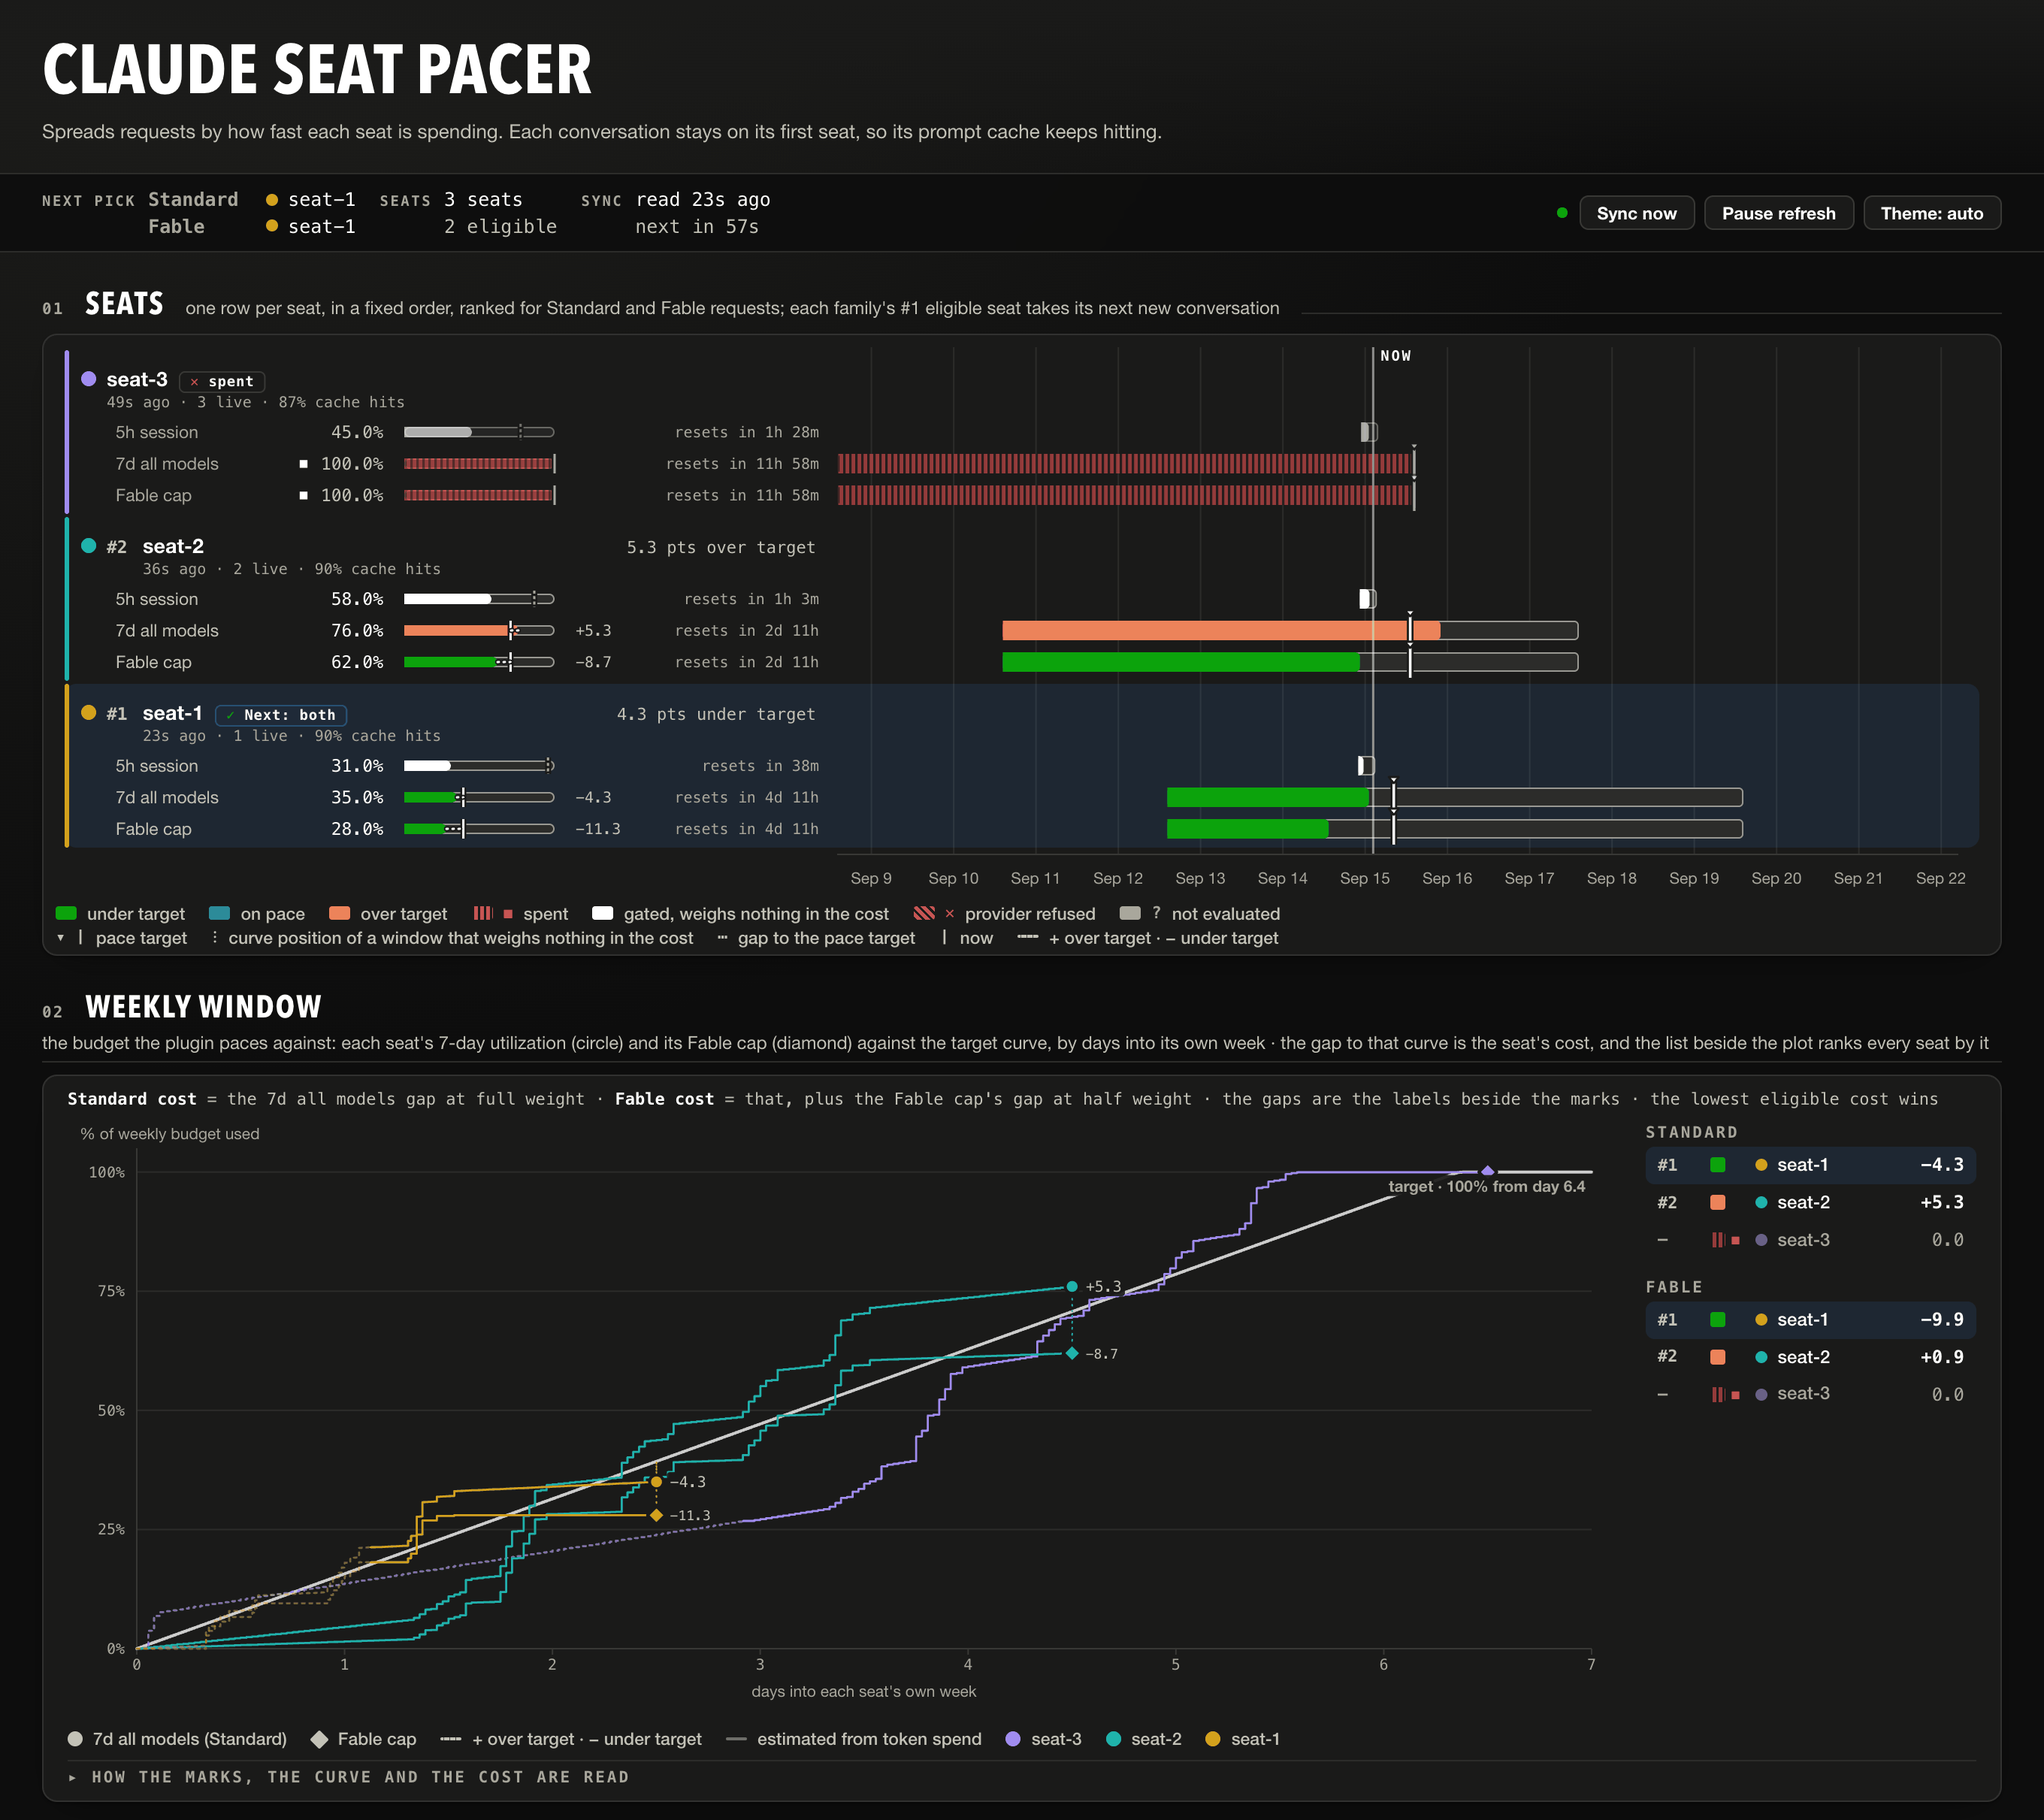
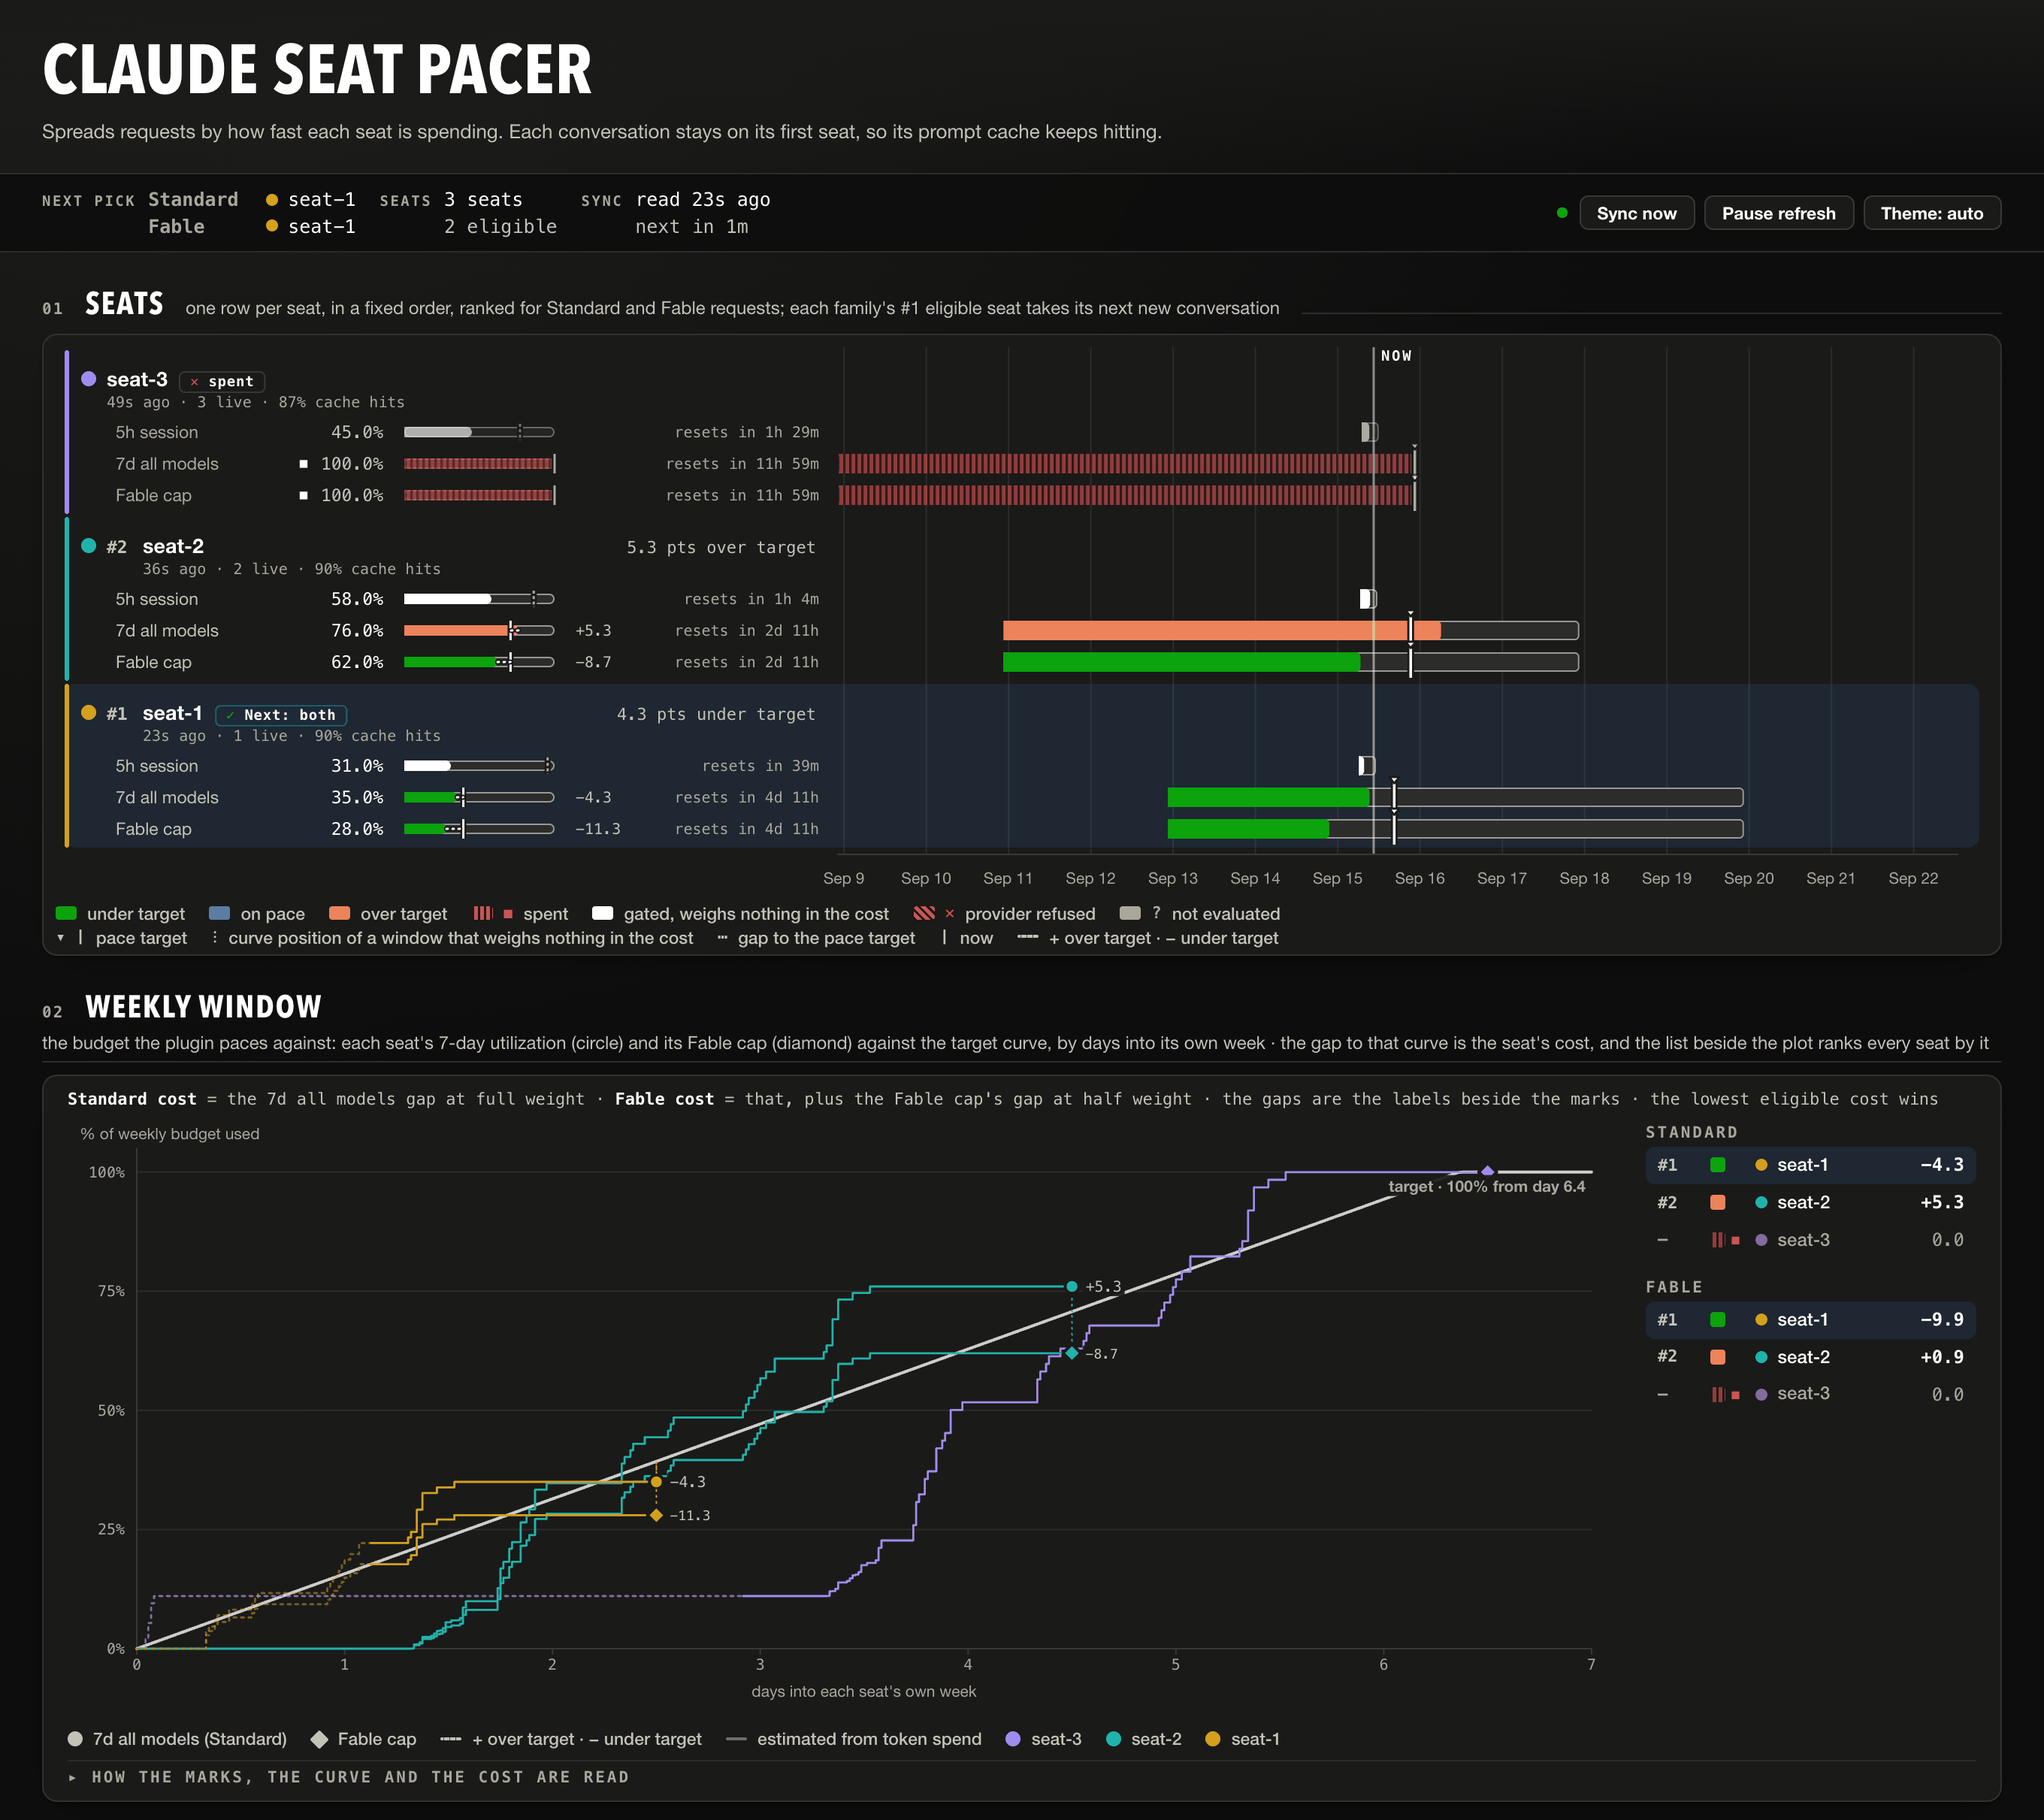
Fix(N/A): Close the replay's gap inside its rises, so a recorded flat stays flat
The rises the recording shows are scaled by one factor to sum to the
seat's reading. Nothing is added between them, so a twenty-minute step
the recording spent nothing on draws as a flat and an idle night is one
flat on the chart.

diff --git a/cmd/webdev/main.go b/cmd/webdev/main.go
@@ -1058,11 +1058,10 @@ func paceReading(shape []pacePoint, frac float64) pacePoint {
 // the flat one of them draws over a night is the flat all of them draw. The
 // replay is the rises the recording shows: each step adds what the recording
 // added, so the curve carries that week's overnight flats, its bursts and the
-// rate at which it tracked the pace target. Whatever that rise leaves between
-// the replay and the seat's endpoint is spread over the span in proportion to
-// elapsed, which keeps the recording's distance from the target at every point
-// and moves the whole curve, not its shape, onto the reading the snapshot
-// carries.
+// rate at which it tracked the pace target. The rises are scaled by one factor
+// so their sum is the reading the snapshot carries; nothing is added between
+// them, so a step the recording spent nothing on stays exactly flat and an
+// idle night is one flat on the chart, not a slope of twenty-minute increments.
 //
 // Utilization is read from the recording rather than interpolated between its
 // readings, so the staircase the poller recorded survives the resampling and an
@@ -1086,20 +1085,28 @@ func paceCurve(shape []pacePoint, elapsed, end float64, n int) []float64 {
 	// as far back in the recording as the seat is into its cycle.
 	offset := 1 - elapsed
 	prev := paceReading(shape, offset).util
+	rises := make([]float64, n)
+	replayed := 0.0
 	for i := 1; i < n; i++ {
 		f := math.Min(elapsed*float64(i)/float64(n-1), hold)
 		cur := paceReading(shape, offset+f).util
-		d := cur - prev
-		if d < 0 {
-			d = 0
+		if d := cur - prev; d > 0 {
+			rises[i] = d
+			replayed += d
 		}
-		out[i] = out[i-1] + d
 		prev = cur
 	}
-	replayed := out[n-1]
-	for i := range out {
-		f := math.Min(elapsed*float64(i)/float64(n-1), hold)
-		out[i] = math.Min(math.Max(out[i]+(end-replayed)*f/hold, 0), 1)
+	// The gap between what the recording rose and where the seat ends is
+	// closed inside the rises, each scaled by one factor, and never spread
+	// over time: a step that recorded no spend stays exactly flat, so an
+	// idle night stays a flat on the chart rather than becoming a slope of
+	// twenty-minute increments.
+	gain := 1.0
+	if replayed > 0 {
+		gain = end / replayed
+	}
+	for i := 1; i < n; i++ {
+		out[i] = math.Min(out[i-1]+rises[i]*gain, 1)
 	}
 	// Utilization never falls inside a cycle, and the last sample is the
 	// reading the snapshot carries, so the rise is clamped from both ends.
